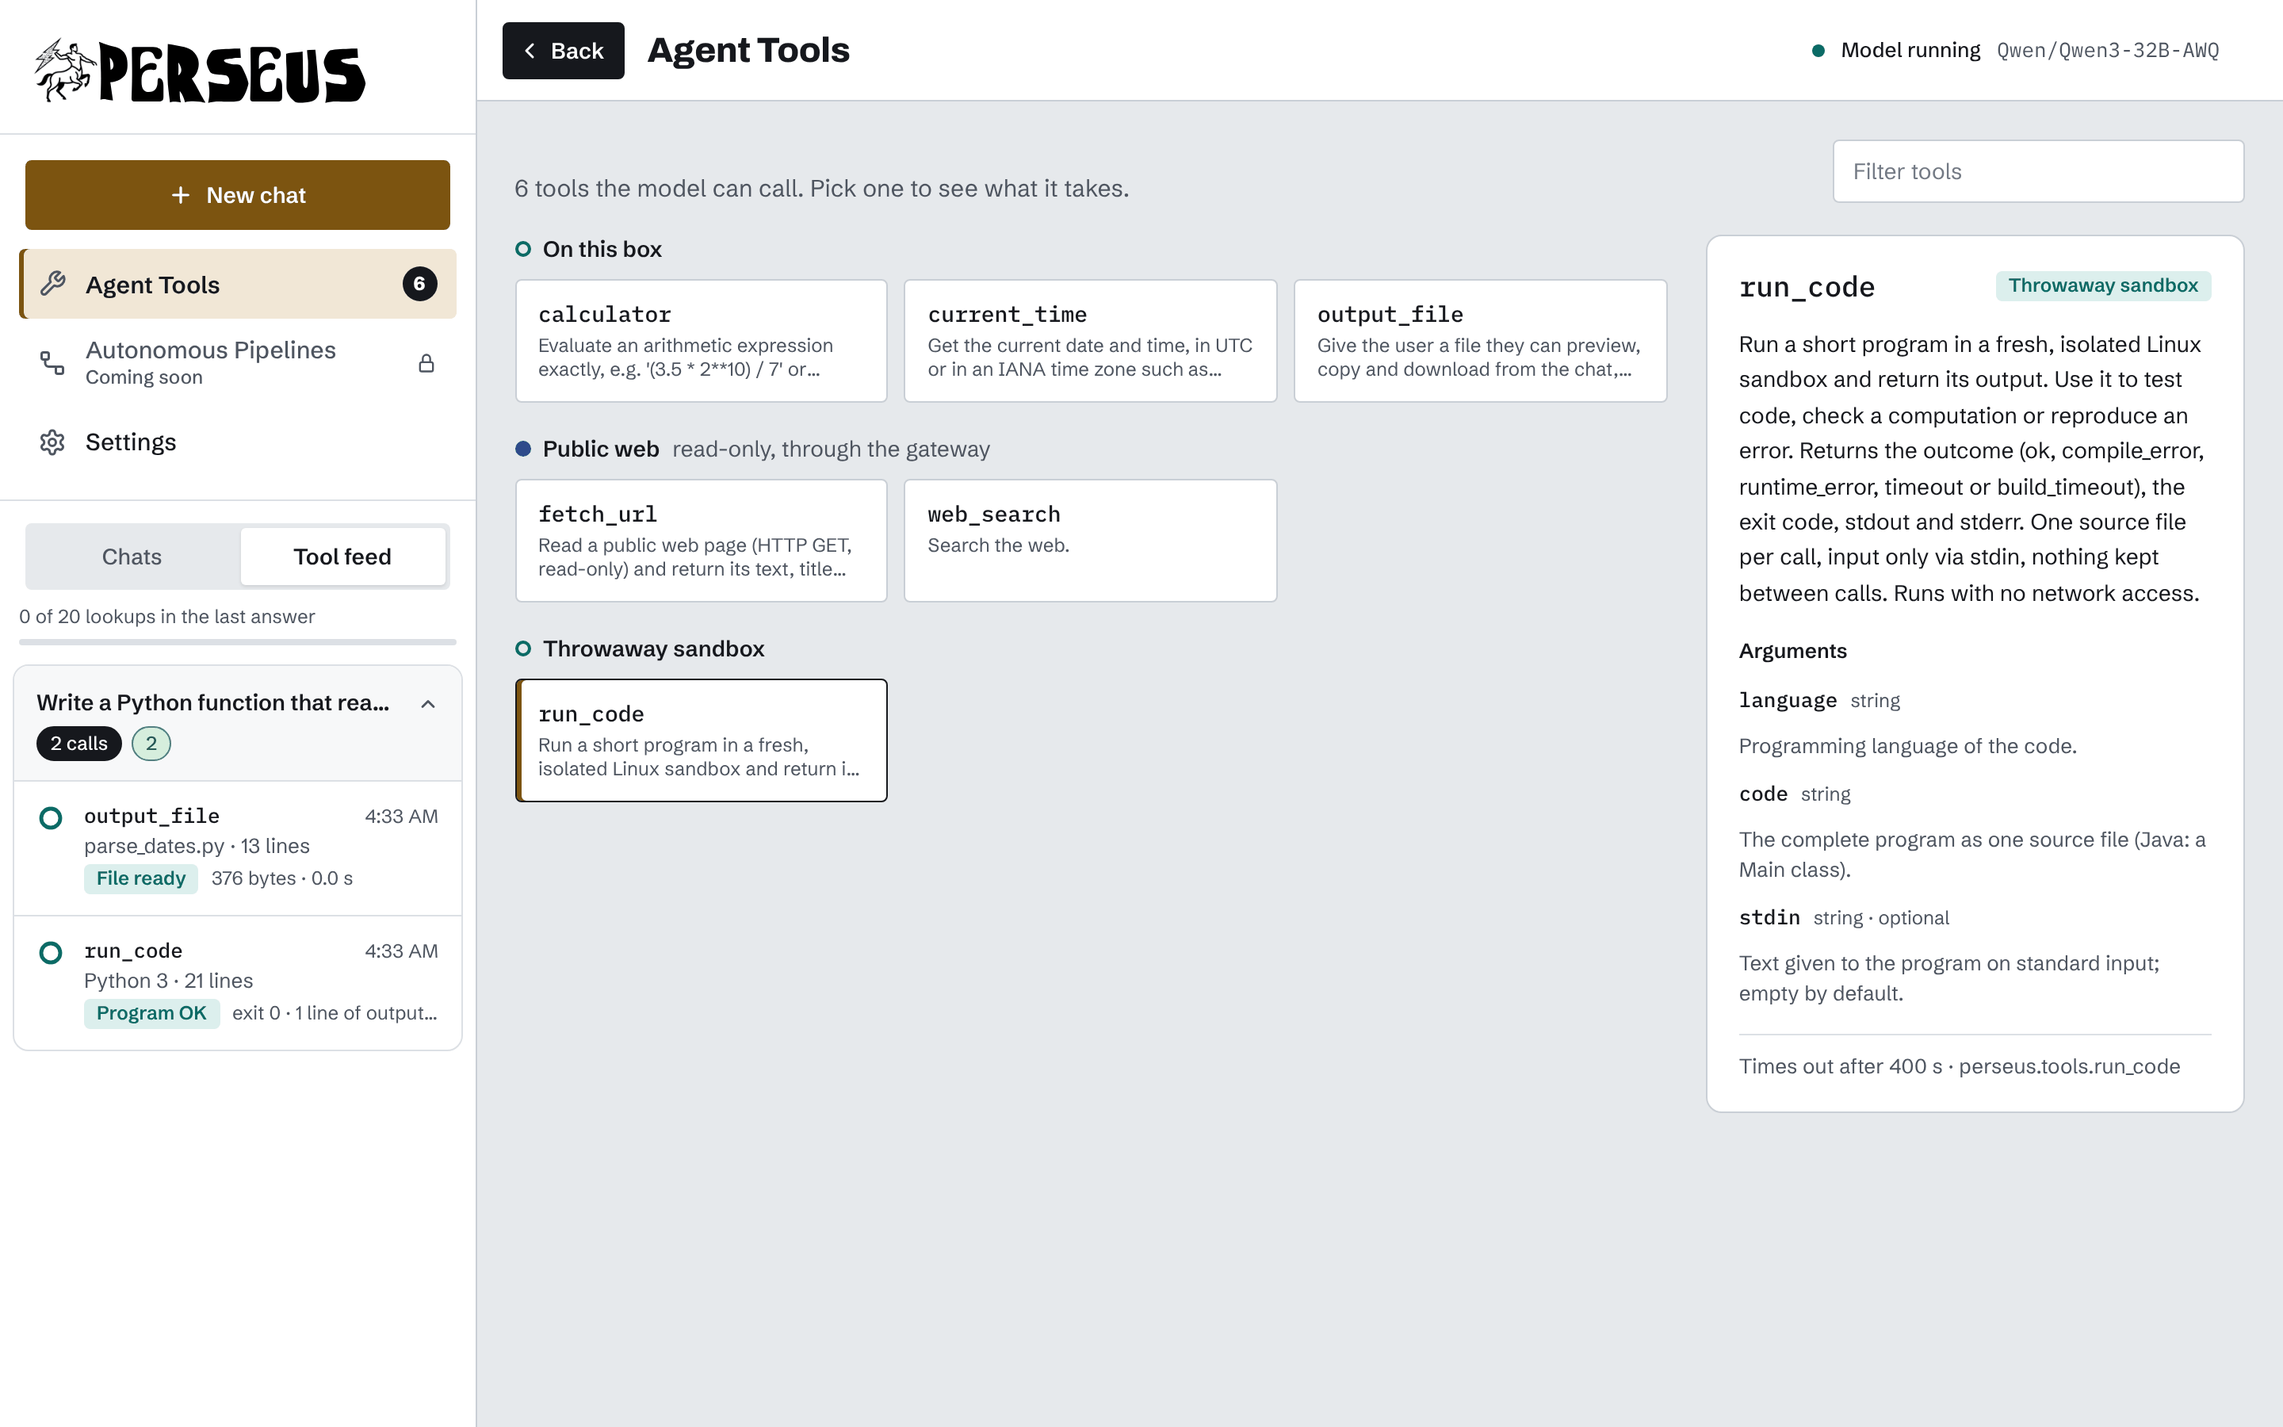
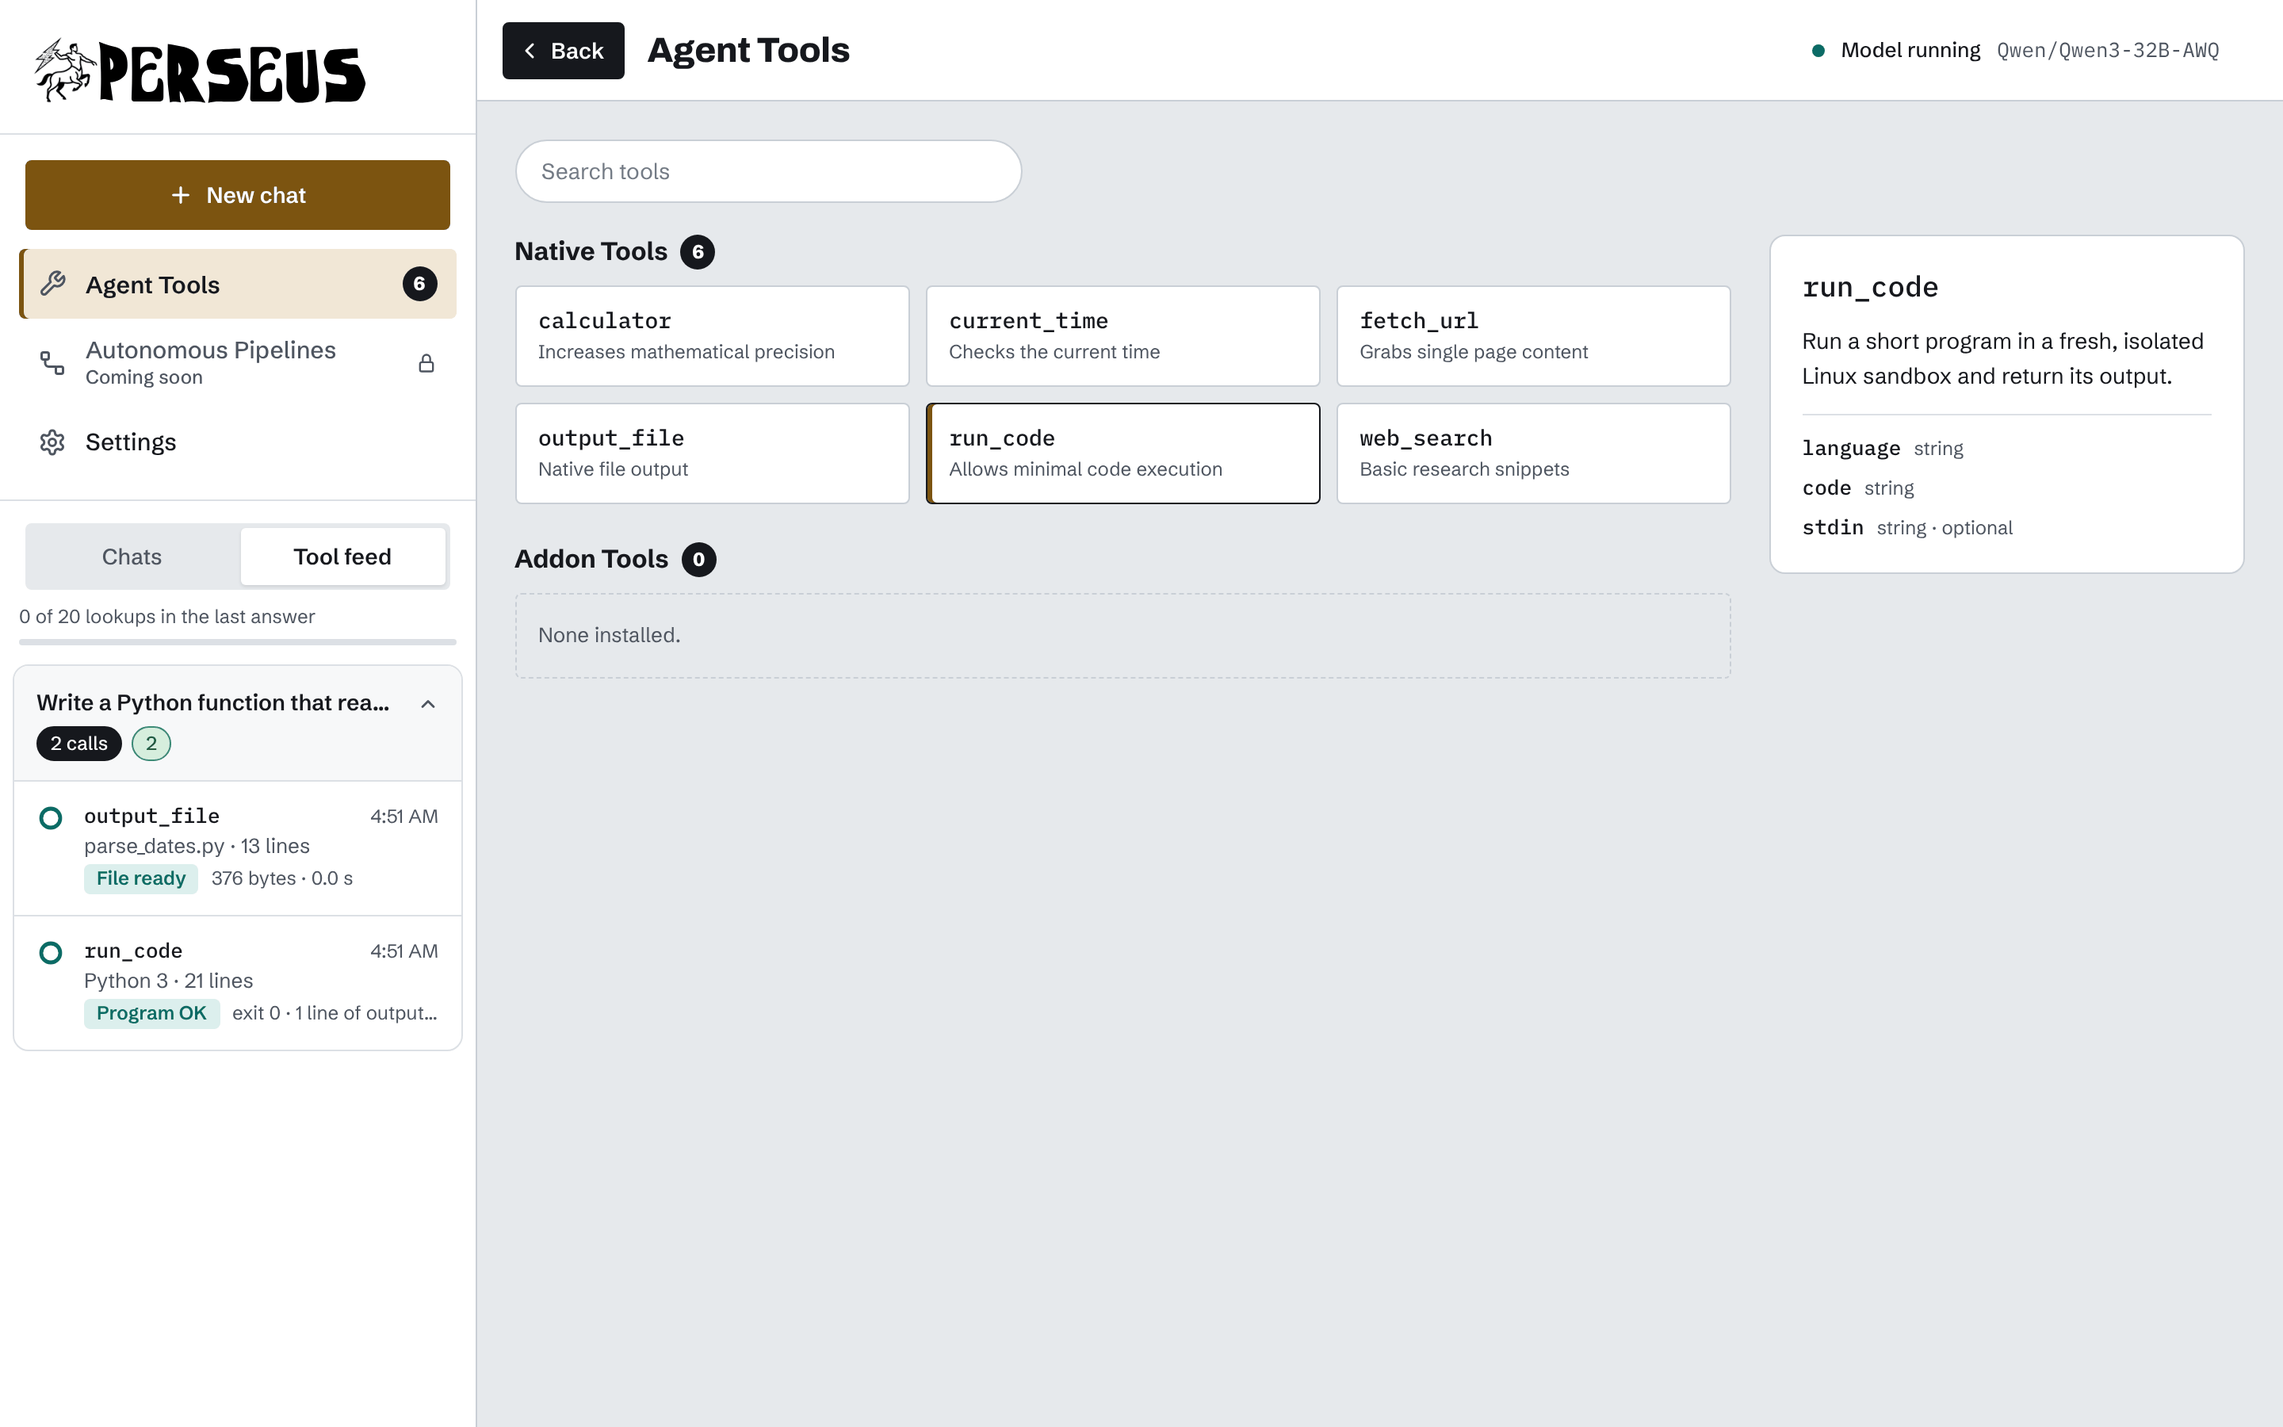
Agent Tools: Native and Addon sections, simpler details
The Agent Tools page now matches the mockup: a rounded search bar at the
top left, a Native Tools section for the six tools that ship with
Perseus and an Addon Tools section for tool files you add, each with a
count. Native tools carry a short blurb; addons show the first sentence
of their description. The details panel is down to the name, one
sentence and the arguments with their types. /api/tools reports
`native` and `short` for each tool. README text and screenshot updated.

Claude-Session: https://claude.ai/code/session_01BdvTea8pTBe3RK4Bpfc8kH

Changed region(s): [[0.2188, 0.0933, 1.0, 0.7778], [0.7812, 0.0933, 1.0, 0.1556]]

diff --git a/perseus/web/static/app.js b/perseus/web/static/app.js
@@ -1161,13 +1161,11 @@
   }
 
   // ------------------------------------------------------------------ Agent Tools
-  // Read-only: what the model can call, grouped by where a call goes. Data from /api/tools.
+  // Read-only: what the model can call. Native tools ship with Perseus; addons are tool files you add
+  // to perseus/tools/. Data from /api/tools.
   const tools = { list: null, errors: [], loading: false, error: null, sel: store.get('tool', null), filter: '' };
-  const LANES = [
-    { id: 'box', title: 'On this box', sub: '', dot: 'in', test: (t) => !t.web && t.requires !== 'sandbox' },
-    { id: 'web', title: 'Public web', sub: 'read-only, through the gateway', dot: '', test: (t) => t.web && t.requires !== 'sandbox' },
-    { id: 'sandbox', title: 'Throwaway sandbox', sub: '', dot: 'in', test: (t) => t.requires === 'sandbox' },
-  ];
+  const firstSentence = (text) => (text || '').split(/(?<=\.)\s(?=[A-Z])/)[0];
+  const toolShort = (t) => t.short || firstSentence(t.description);
 
   async function loadTools() {
     if (tools.loading) return;
@@ -1193,9 +1191,10 @@
     }
     const all = tools.list;
     const q = tools.filter.trim().toLowerCase();
-    const shown = all.filter((t) => !q || t.name.toLowerCase().includes(q) || (t.description || '').toLowerCase().includes(q));
-    const sel = all.find((t) => t.name === tools.sel) || shown[0] || all[0];
-    const input = h('input', { type: 'search', id: 'tool-filter', class: 'tool-filter', placeholder: 'Filter tools', 'aria-label': 'Filter tools', autocomplete: 'off' });
+    const match = (t) => !q || t.name.toLowerCase().includes(q) || toolShort(t).toLowerCase().includes(q)
+      || (t.description || '').toLowerCase().includes(q);
+    const sel = all.find((t) => t.name === tools.sel) || all.find(match) || all[0];
+    const input = h('input', { type: 'search', id: 'tool-filter', class: 'tool-filter', placeholder: 'Search tools', 'aria-label': 'Search tools', autocomplete: 'off' });
     input.value = tools.filter;
     input.addEventListener('input', () => {
       tools.filter = input.value;
@@ -1203,37 +1202,34 @@
       renderTools();
       const again = $('tool-filter'); again.focus(); again.setSelectionRange(at, at);
     });
-    const groups = LANES.map((lane) => {
-      const list = shown.filter(lane.test);
-      if (!list.length) return null;
-      return h('section', { class: 'tool-group' },
-        h('h2', {}, h('span', { class: 'lane-dot ' + lane.dot, 'aria-hidden': 'true' }), lane.title,
-          lane.sub ? h('span', { class: 'sub', text: lane.sub }) : null),
-        h('div', { class: 'tool-grid' }, list.map((t) => h('button', { type: 'button', class: 'tool-tile', 'aria-pressed': String(sel && sel.name === t.name),
-          onclick: () => { tools.sel = t.name; store.set('tool', t.name); renderTools(); } },
-          h('span', { class: 'name', text: t.name }), h('span', { class: 'short', text: (t.description || '').split(/(?<=\.)\s(?=[A-Z])/)[0] })))));
-    }).filter(Boolean);
+    const section = (title, list) => {
+      const shown = list.filter(match);
+      return h('section', { class: 'tool-group', 'aria-label': title },
+        h('h2', {}, title, h('span', { class: 'count-badge', text: String(list.length) })),
+        shown.length
+          ? h('div', { class: 'tool-grid' }, shown.map((t) => h('button', { type: 'button', class: 'tool-tile', 'aria-pressed': String(sel && sel.name === t.name),
+            onclick: () => { tools.sel = t.name; store.set('tool', t.name); renderTools(); } },
+            h('span', { class: 'name', text: t.name }), h('span', { class: 'short', text: toolShort(t) }))))
+          : h('p', { class: 'tool-none', text: q || list.length ? 'No match.' : 'None installed.' }));
+    };
     body.replaceChildren(
       ...tools.errors.map((e) => h('div', { class: 'callout', role: 'alert' }, icon('alert'),
         h('div', {}, h('strong', { class: 'mono', text: e.file }), ' wasn’t loaded: ' + e.error))),
-      h('div', { class: 'tools-head' }, h('p', { class: 'tools-lede', text: `${plural(all.length, 'tool')} the model can call. Pick one to see what it takes.` }), input),
+      input,
       h('div', { class: 'tools-layout' },
-        h('div', { class: 'tool-groups' }, groups.length ? groups
-          : h('div', { class: 'dev-empty', text: all.length ? `Nothing matches “${tools.filter}”.` : 'No tools loaded.' })),
+        h('div', { class: 'tool-groups' },
+          section('Native Tools', all.filter((t) => t.native)),
+          section('Addon Tools', all.filter((t) => !t.native))),
         sel ? toolSpec(sel) : null));
   }
 
+  // The details of the picked tool: name, one sentence, and the arguments it takes.
   function toolSpec(t) {
-    const lane = LANES.find((l) => l.test(t));
     return h('aside', { class: 'tool-spec', 'aria-label': t.name },
-      h('div', { class: 'tool-spec-head' }, h('h2', { text: t.name }),
-        h('span', { class: 'chip ' + (t.web && t.requires !== 'sandbox' ? 'out' : 'in'), text: lane ? lane.title : '' })),
-      h('p', { text: t.description }),
-      h('h3', { text: t.params.length ? 'Arguments' : 'Takes no arguments' }),
-      t.params.length ? h('dl', { class: 'tool-args' }, t.params.flatMap((p) => [
-        h('dt', {}, h('span', { class: 'mono', text: p.name }), h('span', { class: 't', text: p.type + (p.required ? '' : ' · optional') })),
-        p.description ? h('dd', { text: p.description }) : null])) : null,
-      h('div', { class: 'tool-limits', text: `Times out after ${t.timeout_s} s` + (t.source ? ` · ${t.source}` : '') }));
+      h('h2', { text: t.name }),
+      h('p', { text: firstSentence(t.description) }),
+      t.params.length ? h('dl', { class: 'tool-args' }, t.params.map((p) => h('div', {},
+        h('dt', { class: 'mono', text: p.name }), h('dd', { text: p.type + (p.required ? '' : ' · optional') })))) : null);
   }
 
   // ------------------------------------------------------------------ render all

diff --git a/perseus/web/static/app.css b/perseus/web/static/app.css
@@ -443,15 +443,13 @@ textarea::placeholder, input::placeholder { color: var(--faint); }
 /* ---------------------------------------------------------------- Agent Tools */
 .view-dev { flex: 1 1 auto; padding: 24px; }
 .dev { display: flex; flex-direction: column; gap: 20px; }
-.tools-head { display: flex; flex-wrap: wrap; align-items: flex-end; justify-content: space-between; gap: 16px; }
-.tools-lede { margin: 0; font-size: 15px; color: var(--muted); max-width: 64ch; }
-.tool-filter { width: 260px; height: 40px; padding: 0 12px; border-radius: 4px; border: 1px solid var(--line); background: var(--raised); font-size: 14px; }
+.tool-filter {
+  display: block; width: 320px; max-width: 100%; height: 40px; padding: 0 16px; border-radius: 20px;
+  border: 1px solid var(--line); background: var(--raised); font-size: 14px;
+}
 .tools-layout { display: flex; flex-wrap: wrap; gap: 24px; align-items: flex-start; }
-.tool-groups { flex: 999 1 560px; min-width: 0; display: flex; flex-direction: column; gap: 20px; }
-.tool-group h2 { margin: 0 0 10px; font-size: 14px; font-weight: 600; display: flex; align-items: center; gap: 8px; }
-.tool-group h2 .sub { font-weight: 400; color: var(--muted); }
-.lane-dot { width: 10px; height: 10px; border-radius: 5px; background: var(--outside); }
-.lane-dot.in { background: transparent; border: 2px solid var(--inside); }
+.tool-groups { flex: 999 1 560px; min-width: 0; display: flex; flex-direction: column; gap: 24px; }
+.tool-group h2 { margin: 0 0 10px; font-size: 16px; font-weight: 700; display: flex; align-items: center; gap: 8px; }
 .tool-grid { display: grid; grid-template-columns: repeat(auto-fill, minmax(220px, 1fr)); gap: 10px; }
 .tool-tile {
   display: flex; flex-direction: column; gap: 4px; align-items: flex-start; width: 100%; min-height: 64px; padding: 12px 14px; border-radius: 4px;
@@ -460,17 +458,14 @@ textarea::placeholder, input::placeholder { color: var(--faint); }
 .tool-tile[aria-pressed="true"] { border-color: var(--ink); box-shadow: inset 3px 0 0 var(--bronze); }
 .tool-tile .name { font-family: 'IBM Plex Mono', ui-monospace, monospace; font-size: 14px; font-weight: 500; }
 .tool-tile .short { font-size: 12px; color: var(--muted); display: -webkit-box; -webkit-line-clamp: 2; -webkit-box-orient: vertical; overflow: hidden; }
-.tool-spec { flex: 1 1 340px; min-width: 0; border: 1px solid var(--line); border-radius: 10px; background: var(--raised); padding: 20px; display: flex; flex-direction: column; gap: 14px; }
-.tool-spec-head { display: flex; align-items: center; justify-content: space-between; gap: 12px; }
+.tool-none { margin: 0; padding: 18px 14px; border: 1px dashed var(--line); border-radius: 4px; font-size: 13px; color: var(--muted); }
+.tool-spec { flex: 1 1 300px; min-width: 0; border: 1px solid var(--line); border-radius: 10px; background: var(--raised); padding: 20px; display: flex; flex-direction: column; gap: 12px; }
 .tool-spec h2 { margin: 0; font-family: 'IBM Plex Mono', ui-monospace, monospace; font-size: 18px; font-weight: 500; }
 .tool-spec p { margin: 0; font-size: 14px; line-height: 1.6; }
-.tool-spec h3 { margin: 4px 0 0; font-size: 13px; font-weight: 600; }
-.tool-args { margin: 0; display: flex; flex-direction: column; gap: 10px; }
-.tool-args dt { display: flex; gap: 8px; align-items: baseline; }
-.tool-args dt .mono { font-size: 13px; font-weight: 500; }
-.tool-args dt .t { font-size: 12px; color: var(--muted); }
-.tool-args dd { margin: 2px 0 0; font-size: 13px; color: var(--muted); line-height: 1.5; }
-.tool-limits { padding-top: 12px; border-top: 1px solid var(--hair); font-size: 13px; color: var(--muted); }
+.tool-args { margin: 0; padding-top: 12px; border-top: 1px solid var(--hair); display: flex; flex-direction: column; gap: 8px; }
+.tool-args div { display: flex; gap: 8px; align-items: baseline; }
+.tool-args dt { font-size: 13px; font-weight: 500; }
+.tool-args dd { margin: 0; font-size: 12px; color: var(--muted); }
 .callout { display: flex; align-items: flex-start; gap: 12px; padding: 12px 14px; border-radius: 10px; background: var(--blocked-soft); color: var(--blocked); font-size: 14px; }
 .callout svg { flex: none; margin-top: 2px; }
 .dev-empty { padding: 24px; border: 1px solid var(--line); border-radius: 10px; background: var(--raised); color: var(--muted); }

diff --git a/perseus/web/dashboard.py b/perseus/web/dashboard.py
@@ -34,6 +34,16 @@ PERSONAS = {
 CREATIVITY = {"precise": 0.2, "balanced": 0.7, "creative": 1.0}
 LENGTH = {"short": 1024, "medium": 4096, "long": 16384}
 THINKING = ("off", "low", "medium", "high", "max")
+# Tools that ship with Perseus, and the one-line blurb the Agent Tools page shows for each. Any other
+# tool file in perseus/tools/ is an addon; its blurb is the first sentence of its description.
+NATIVE_TOOLS = {
+    "calculator": "Increases mathematical precision",
+    "current_time": "Checks the current time",
+    "output_file": "Native file output",
+    "web_search": "Basic research snippets",
+    "fetch_url": "Grabs single page content",
+    "run_code": "Allows minimal code execution",
+}
 # Thinking budget per answer, on top of Length. Past it Perseus wraps up (see Engine.run_turn), so
 # the levels mean something even for models whose template has no effort setting (Qwen3).
 # Max: thinking may use everything a request allows (half the context) minus the answer's room.
@@ -284,8 +294,10 @@ class Dashboard:
                        "required": k in required,
                        "description": (v.get("description") or "") if isinstance(v, dict) else ""}
                       for k, v in props.items()]
+            native = t.source == f"perseus.tools.{name}" and name in NATIVE_TOOLS
             out.append({"name": name, "description": self.registry.description(t), "params": params, "web": self.registry.is_web(t),
                         "timeout_s": t.timeout_s, "source": t.source, "requires": t.requires,
+                        "native": native, "short": NATIVE_TOOLS[name] if native else "",
                         "used_by": used.get(name, [])})
         errors = self.tool_errors() if self.tool_errors else {}
         return {"tools": out, "errors": [{"file": f, "error": e} for f, e in sorted(errors.items())]}

diff --git a/tests/test_server.py b/tests/test_server.py
@@ -138,6 +138,7 @@ class ServerTests(unittest.TestCase):
         self.assertEqual(calc["params"], [{"name": "x", "type": "number", "required": True, "description": ""}])
         fetch = next(t for t in body["tools"] if t["name"] == "fetch_url")
         self.assertTrue(fetch["web"])
+        self.assertFalse(calc["native"])                           # only the tools that ship with Perseus are native
         self.assertIsNone(calc["requires"])                         # the Agent Tools page groups sandbox tools by this
         self.assertIn("Code Reviewer", [u["role"] for u in fetch["used_by"]])
 

diff --git a/README.md b/README.md
@@ -255,10 +255,10 @@ Autonomous Pipelines is greyed out for now. It's a multi-step workflow feature t
 ## Agent functions
 
 <p align="center">
-  <img src="docs/screenshot-functions.png" alt="The Agent Tools page: tools grouped into On this box, Public web and Throwaway sandbox, with the details of run_code and its arguments" width="100%">
+  <img src="docs/screenshot-functions.png" alt="The Agent Tools page: the six Native Tools, an empty Addon Tools section, and the details of run_code with its arguments" width="100%">
 </p>
 
-These are what the model can do while it answers. Open Agent Tools in the sidebar and pick one to see what it does and the arguments it takes. They're grouped by where a call goes: on this box, the public web, or the throwaway sandbox.
+These are what the model can do while it answers. Open Agent Tools in the sidebar and pick one to see what it does and the arguments it takes. Native Tools are the ones that ship with Perseus; Addon Tools are tool files you add yourself (see below).
 
 | Function | What it does |
 | --- | --- |
